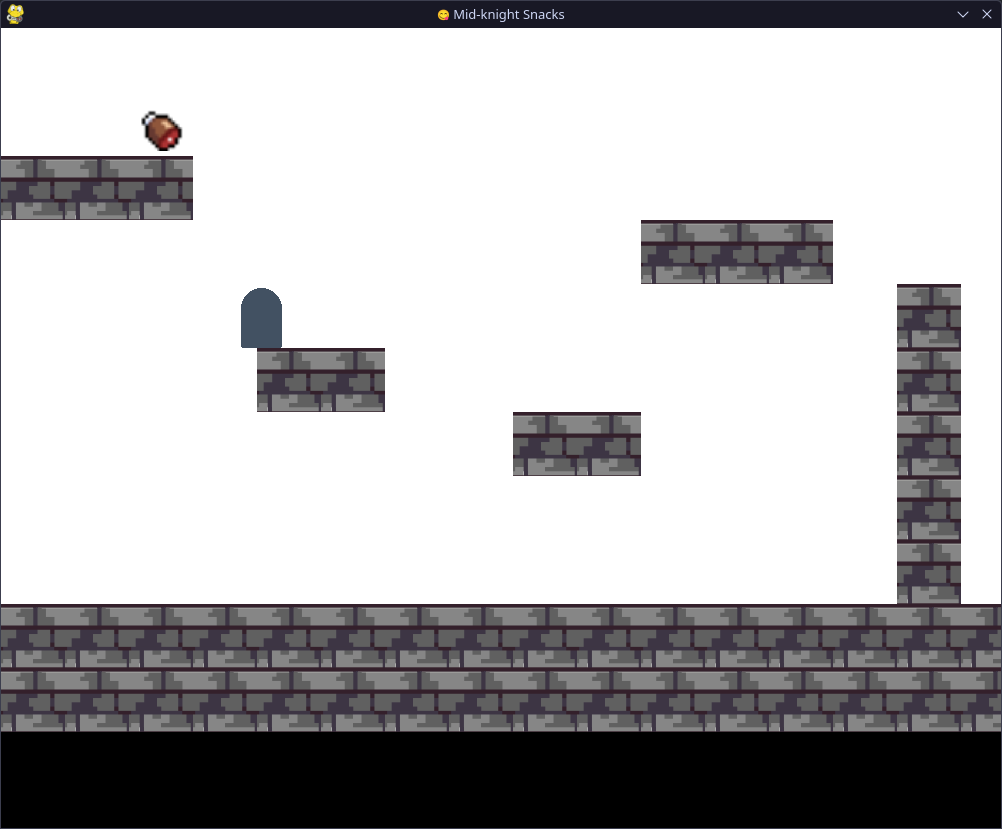
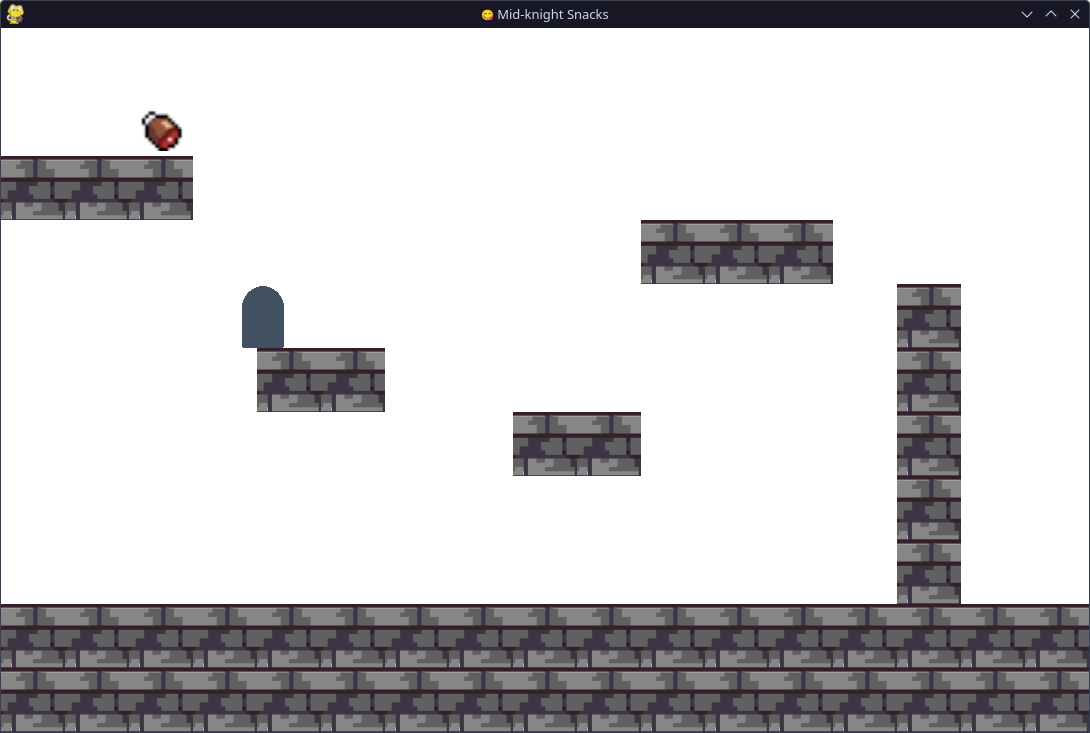
Update screenshots to demo auto-resizing

diff --git a/README.md b/README.md
@@ -36,9 +36,10 @@ The original idea behind the game was that by completing levels, the player woul
 
 <video controls src="demos/Mid-Knight Snacks.mp4" title="Mid-Knight Snacks demo video"></video>
 
-## Screenshot
+## Screenshots
 
 ![Screenshot of the game running on Linux](./demos/mid-knight-snacks.png)
+![Screenshot of the game in a smaller window, showing how it can automatically resize](./demos/auto-resizing.png)
 
 ## System requirements
 
